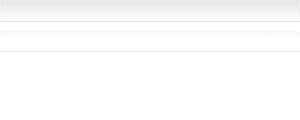
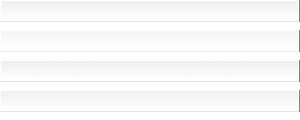
bug 10635 I screwed up the gradients but Im going to check in anyway - adding new tab bar, replaced temp images, some CSS for mini r=me
git-svn-id: http://publicsvn.songbirdnest.com/client/trunk@9936 5aad4ff5-4b58-4159-ba3f-0e6328df4cad

diff --git a/feathers/gonzo/chrome/content/bindings/playlist.css b/feathers/gonzo/chrome/content/bindings/playlist.css
@@ -128,41 +128,41 @@ Tree Progress Meter
 .sb-filterlist-tree > treechildren::-moz-tree-cell( rating ),
 .sb-filterlist-tree > treechildren::-moz-tree-cell( rating, rating0 )
 {
-  background-position:4px 0px;
+  background-position:left 0px;
 }
 
 .sb-playlist-tree > treechildren::-moz-tree-cell( rating, rating1 ),
 .sb-filterlist-tree > treechildren::-moz-tree-cell( rating, rating1 )
 {
-  background-position:4px -18px;
+  background-position:left -18px;
 }
 
 
 .sb-playlist-tree > treechildren::-moz-tree-cell( rating, rating2 ),
 .sb-filterlist-tree > treechildren::-moz-tree-cell( rating, rating2 )
 {
-  background-position:4px -36px;
+  background-position:left -36px;
 }
 
 
 .sb-playlist-tree > treechildren::-moz-tree-cell( rating, rating3 ),
 .sb-filterlist-tree > treechildren::-moz-tree-cell( rating, rating3 )
 {
-  background-position:4px -54px;
+  background-position:left -54px;
 }
 
 
 .sb-playlist-tree > treechildren::-moz-tree-cell( rating, rating4 ),
 .sb-filterlist-tree > treechildren::-moz-tree-cell( rating, rating4 )
 {
-  background-position:4px -72px;
+  background-position:left -72px;
 }
 
 
 .sb-playlist-tree > treechildren::-moz-tree-cell( rating, rating5 ),
 .sb-filterlist-tree > treechildren::-moz-tree-cell( rating, rating5 )
 {
-  background-position:4px -90px;
+  background-position:left -90px;
 }
 
 
@@ -191,14 +191,13 @@ In-cell Buttons
        background-repeat:no-repeat;
        margin:0 0 0 7px !important;
        padding:1px 8px 2px 0 !important;
-       background-color:pink;
        font-size:9px;
 }
 
 /* button hover state */
 .sb-playlist-tree > treechildren::-moz-tree-cell( button cell-hover )
 {
-       background-position:0px -18px;
+       background-position:0px -18px !important;
 }
 .sb-playlist-tree > treechildren::-moz-tree-cell-text( button cell-hover )
 {
@@ -208,7 +207,7 @@ In-cell Buttons
 /* button active state */
 .sb-playlist-tree > treechildren::-moz-tree-cell( button cell-active )
 {
-       background-position:0px -36px;
+       background-position:0px -36px !important;
 }
 .sb-playlist-tree > treechildren::-moz-tree-cell-text( button cell-active )
 {

diff --git a/feathers/gonzo/chrome/skin/colors.css b/feathers/gonzo/chrome/skin/colors.css
@@ -320,13 +320,13 @@ treechildren::-moz-tree-cell-text( selected ) {
   color:rgb(0,0,0);
 }
 treechildren::-moz-tree-row( selected, focus, odd ) {
-  background-color: rgb(219,239,198);
+  background-color: rgb(240,200,200);
 
   
   
 }
 treechildren::-moz-tree-row( selected, focus, even ) {
-  background-color: rgb(214,234,193);
+  background-color: rgb(235,195,195);
 
 }
 
@@ -577,7 +577,7 @@ tab[selected="true"],
   -moz-background-clip: padding !important;
 }
 .tabbrowser-tab + .tabbrowser-tab {
-  margin-left: 1px;
+  margin-left: 0px !important;
 }
 
 .tabbrowser-tab > .tab-image-middle,
@@ -1417,23 +1417,17 @@ WIZARDS
 *******************************************************************************
 */
 .wizard-header {
-  background-color: #0f100f; /** Groove */
-  border-bottom: 2px solid;
-  -moz-border-bottom-colors: #474948 /** Rubber Highlight */
-                             black;
+
 }
 
 /** Software Installer Dialog */
 installitem
 {
-  border: 0px solid !important;
-  background-color: #313131 !important;
-  color: #99A195; /** Tab Text */
+
 }
 #itemList
 {
-  background-color: #313131 !important;
-  border: none !important;
+
 }
 
 
@@ -1453,7 +1447,7 @@ dialog:not([platform=Darwin])
 
 }
 
-dialog:not([platform=Darwin]) {
+dialog[platform] {
   border:3px solid red;
   border-top:1px solid gray;
   -moz-border-right-colors:gray transparent gray;
@@ -1464,7 +1458,9 @@ dialog:not([platform=Darwin]) {
   background-position:center 1px;
   background-color:rgb(200,200,200);
 }
-
+dialog[platform='Darwin'] {
+  border:none !important;
+song}
 
 /*prefwindow*/
 .windowDialog

diff --git a/feathers/gonzo/chrome/content/global/browser.css b/feathers/gonzo/chrome/content/global/browser.css
@@ -116,7 +116,7 @@ tab[first-tab="true"] > .tab-close-button,
 .tabs-alltabs-button {
   background-image: url(chrome://songbird/skin/browser-tab-bar/bg-tab.png);
   background-repeat:no-repeat;
-  background-position:left 0px;
+  background-position:-1px 0px;
 
   -moz-border-radius:0px !important;
   margin:0 0 0 1px;
@@ -125,17 +125,17 @@ tab[first-tab="true"] > .tab-close-button,
 }
 
 .tabs-alltabs-button:hover {
-  background-position:left -30px;
+  background-position:-1px -30px;
 }
 .tabs-alltabs-button:active {
-  background-position:left -60px;
+  background-position:-1px -60px;
 }
 .tabs-alltabs-button[disabled="true"] {
-  background-position:left -90px !important;
+  background-position:-1px -90px !important;
 }
 .tabs-alltabs-button[open="true"] {
   background-image: url(chrome://songbird/skin/browser-tab-bar/bg-selected-tab.png) !important;
-  background-position:left -60px !important;
+  background-position:-1px -60px !important;
 }
 
 .scrollbutton-rel-box > .scrollbutton-down {

diff --git a/feathers/gonzo/chrome/content/global/menu.css b/feathers/gonzo/chrome/content/global/menu.css
@@ -97,7 +97,7 @@ menuitem[type="radio"] > .menu-iconic-left {
 
 #main-menubar > menu[_moz-menuactive="true"][open="true"] {
 background-color:white;
-border:1px solid red;
+border:1px solid gray;
 border-bottom:none;
 }
 
@@ -117,7 +117,7 @@ margin:0px;
 
 popup,
 menupopup {
-  border:1px solid red;
+  border:1px solid gray;
 }
 
 window[platform="Darwin"] popup,
@@ -197,9 +197,7 @@ menuitem[checked="true"][disabled="true"] {
 /* ::::: menuseparator ::::: */
 
 menuseparator {
-/*  margin: 1px 0 0px 0;
-  padding: 1px 0 !important;
-  border-top: 1px dotted red;*/
+
   min-height:9px;
   background-image: url(chrome://songbird/skin/menu/bg-separator.png);
   background-position:center center;

diff --git a/feathers/gonzo/chrome/content/bindings/search.css b/feathers/gonzo/chrome/content/bindings/search.css
@@ -68,11 +68,20 @@ background-color:rgb(220,220,220);
   -moz-border-radius:0 !important;
   -moz-border-radius-topleft:3px !important;
   -moz-border-radius-bottomleft:3px !important;
-  background-image:none;
-  background-color:white;
-  
+
+  background-image:url('chrome://songbird/skin/base-elements/bg-button.png');
+  background-repeat:repeat-x;
+  background-position:center 0px;
+    
   border:1px solid rgb(40,40,40);
 }
+.searchbar-engine-button:hover {
+  background-position:center -300px;
+}
+.searchbar-engine-button:active {
+  background-position:center -600px;
+}
+
 .searchbar-textbox {
   margin:0;
   min-height:22px;

diff --git a/feathers/gonzo/chrome/content/bindings/playerControls.css b/feathers/gonzo/chrome/content/bindings/playerControls.css
@@ -434,3 +434,15 @@ progressmeter.sb-player-volume-slider > .progress-remainder
   -moz-image-region: rect(72px 72px 96px 48px);
 }
 
+
+
+
+#faceplate-tool-bar .rating-stars {
+  background-image: url('chrome://songbird/skin/media-control-pane/button-faceplate-ratings.png');
+}
+#faceplate-tool-bar .rating-box {
+  padding:0 4px;
+  background-image: url('chrome://songbird/skin/media-control-pane/bg-faceplate-ratings.png');
+  background-position:center center;
+  background-repeat:no-repeat;
+}

diff --git a/feathers/gonzo/chrome/content/bindings/faceplate.css b/feathers/gonzo/chrome/content/bindings/faceplate.css
@@ -95,7 +95,7 @@ Imported by bindings.css or directly into feathers.
 
 #track_info {
   min-height:20px;
-  padding:0 8px !important;
+  padding:0 8px;
   margin-top:2px;
 }
 .faceplate-seekinfo-box {
@@ -180,7 +180,7 @@ progressmeter.sb-player-seek-slider > .progress-bar
   min-width:12px;
   background-image: url(chrome://songbird/skin/media-control-pane/bg-seekbar-progress.png);
   background-repeat:no-repeat;
-  background-position:8px 0 !important;
+  background-position:8px 0;
 
 }
 

diff --git a/feathers/gonzo/chrome/content/bindings/displayPane.css b/feathers/gonzo/chrome/content/bindings/displayPane.css
@@ -103,7 +103,6 @@ menuitem.displaypane-menuitem[recommended] {
   margin:0;
   padding:0;
   border:none;
-  border-left:1px solid gray;
 
   background-image:url('chrome://songbird/skin/display-pane/bg-header.png');
   background-repeat:repeat-x;
